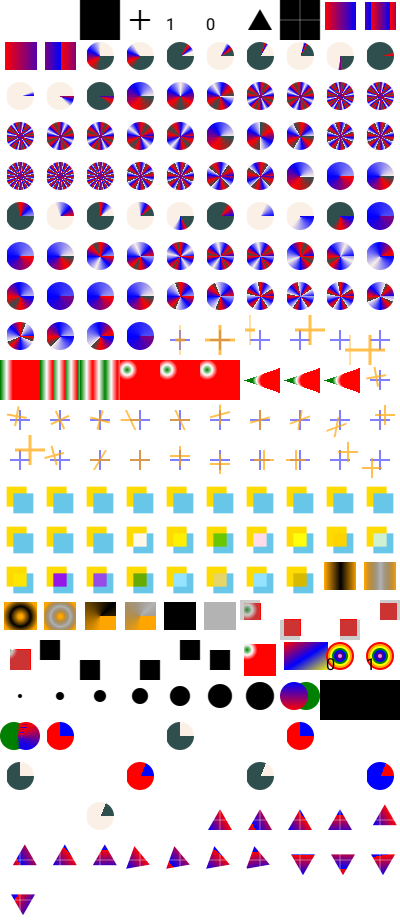
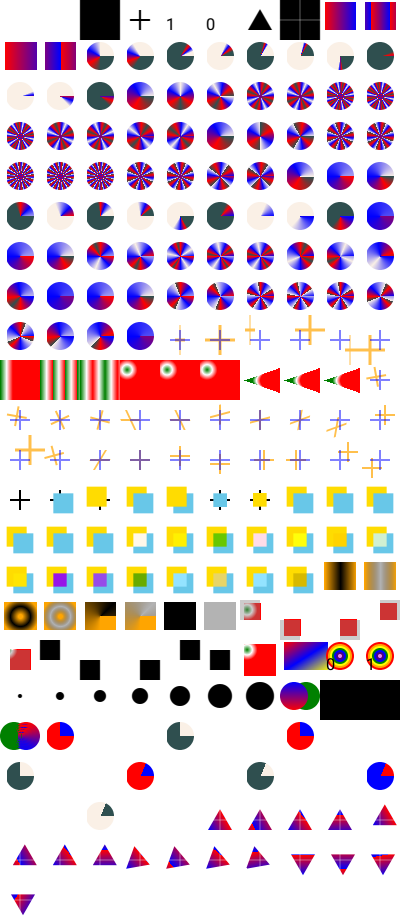
Add support for some additional composite modes

diff --git a/crates/krilla/src/text/glyph/colr.rs b/crates/krilla/src/text/glyph/colr.rs
@@ -8,6 +8,7 @@ use tiny_skia_path::{Path, PathBuilder};
 use crate::geom::Transform;
 use crate::graphics::blend::BlendMode;
 use crate::graphics::color::rgb;
+use crate::graphics::mask::{Mask, MaskType};
 use crate::graphics::paint::{
     Fill, FillRule, LinearGradient, RadialGradient, SpreadMethod, Stop, SweepGradient,
 };
@@ -57,13 +58,19 @@ pub(crate) fn draw_glyph(
 fn interpret(instructions: Vec<Instruction>, surface: &mut Surface) {
     for instruction in instructions {
         match instruction {
-            Instruction::Layer(blend, instructions) => {
+            Instruction::Layer(mode, instructions) => {
+                let blend = mode.to_blend_mode().unwrap_or(BlendMode::Normal);
                 surface.push_blend_mode(blend);
                 surface.push_isolated();
                 interpret(instructions, surface);
                 surface.pop();
                 surface.pop();
             }
+            Instruction::Composite {
+                source,
+                mode,
+                backdrop,
+            } => interpret_composite(source, mode, backdrop, surface),
             Instruction::Filled(fill, mut clips) => {
                 let filled = clips.split_off(clips.len() - 1);
 
@@ -91,21 +98,121 @@ fn interpret(instructions: Vec<Instruction>, surface: &mut Surface) {
     }
 }
 
+fn interpret_composite(
+    source: Vec<Instruction>,
+    mode: CompositeMode,
+    backdrop: Vec<Instruction>,
+    surface: &mut Surface,
+) {
+    match mode {
+        CompositeMode::Clear => {}
+        CompositeMode::Src => {
+            surface.push_isolated();
+            interpret(source, surface);
+            surface.pop();
+        }
+        CompositeMode::Dest => {
+            surface.push_isolated();
+            interpret(backdrop, surface);
+            surface.pop();
+        }
+        CompositeMode::SrcOver => {
+            surface.push_isolated();
+            interpret(backdrop, surface);
+            interpret(source, surface);
+            surface.pop();
+        }
+        CompositeMode::DestOver => {
+            surface.push_isolated();
+            interpret(source, surface);
+            interpret(backdrop, surface);
+            surface.pop();
+        }
+        CompositeMode::SrcIn => interpret_masked(source, backdrop, surface),
+        CompositeMode::DestIn => interpret_masked(backdrop, source, surface),
+        _ => {
+            let Some(blend) = mode.to_blend_mode() else {
+                surface.push_isolated();
+                interpret(backdrop, surface);
+                interpret(source, surface);
+                surface.pop();
+                return;
+            };
+
+            surface.push_isolated();
+            interpret(backdrop, surface);
+            surface.push_blend_mode(blend);
+            surface.push_isolated();
+            interpret(source, surface);
+            surface.pop();
+            surface.pop();
+            surface.pop();
+        }
+    }
+}
+
+fn interpret_masked(visible: Vec<Instruction>, mask: Vec<Instruction>, surface: &mut Surface) {
+    let mask_stream = {
+        let mut builder = surface.stream_builder();
+        let mut mask_surface = builder.surface();
+        interpret(mask, &mut mask_surface);
+        mask_surface.finish();
+        builder.finish()
+    };
+
+    surface.push_mask(Mask::new(mask_stream, MaskType::Alpha));
+    interpret(visible, surface);
+    surface.pop();
+}
+
 /// The context necessary for creating the bytecode of a COLR-based glyph.
 struct ColrBuilder {
     font: Font,
     context_color: rgb::Color,
     clips: Vec<Vec<Path>>,
     stack: Vec<Vec<Instruction>>,
-    layers: Vec<BlendMode>,
+    layers: Vec<CompositeMode>,
     transforms: Vec<Transform>,
     error: bool,
 }
 
 /// A bytecode instruction for drawing a COLR glyph.
 enum Instruction {
-    Layer(BlendMode, Vec<Instruction>),
+    Layer(CompositeMode, Vec<Instruction>),
+    Composite {
+        source: Vec<Instruction>,
+        mode: CompositeMode,
+        backdrop: Vec<Instruction>,
+    },
     Filled(Box<Fill>, Vec<Path>),
+}
+
+trait CompositeModeExt {
+    fn to_blend_mode(self) -> Option<BlendMode>;
+}
+
+impl CompositeModeExt for CompositeMode {
+    fn to_blend_mode(self) -> Option<BlendMode> {
+        match self {
+            CompositeMode::SrcOver => Some(BlendMode::Normal),
+            CompositeMode::Screen => Some(BlendMode::Screen),
+            CompositeMode::Overlay => Some(BlendMode::Overlay),
+            CompositeMode::Darken => Some(BlendMode::Darken),
+            CompositeMode::Lighten => Some(BlendMode::Lighten),
+            CompositeMode::ColorDodge => Some(BlendMode::ColorDodge),
+            CompositeMode::ColorBurn => Some(BlendMode::ColorBurn),
+            CompositeMode::HardLight => Some(BlendMode::HardLight),
+            CompositeMode::SoftLight => Some(BlendMode::SoftLight),
+            CompositeMode::Difference => Some(BlendMode::Difference),
+            CompositeMode::Exclusion => Some(BlendMode::Exclusion),
+            CompositeMode::Multiply => Some(BlendMode::Multiply),
+            CompositeMode::HslHue => Some(BlendMode::Hue),
+            CompositeMode::HslColor => Some(BlendMode::Color),
+            CompositeMode::HslLuminosity => Some(BlendMode::Luminosity),
+            CompositeMode::HslSaturation => Some(BlendMode::Saturation),
+            _ => None,
+        }
+    }
 }
 
 impl ColrBuilder {
@@ -436,32 +543,12 @@ impl ColorPainter for ColrBuilder {
     }
 
     fn push_layer(&mut self, composite_mode: CompositeMode) {
-        let mode = match composite_mode {
-            CompositeMode::SrcOver => BlendMode::Normal,
-            CompositeMode::Screen => BlendMode::Screen,
-            CompositeMode::Overlay => BlendMode::Overlay,
-            CompositeMode::Darken => BlendMode::Darken,
-            CompositeMode::Lighten => BlendMode::Lighten,
-            CompositeMode::ColorDodge => BlendMode::ColorDodge,
-            CompositeMode::ColorBurn => BlendMode::ColorBurn,
-            CompositeMode::HardLight => BlendMode::HardLight,
-            CompositeMode::SoftLight => BlendMode::SoftLight,
-            CompositeMode::Difference => BlendMode::Difference,
-            CompositeMode::Exclusion => BlendMode::Exclusion,
-            CompositeMode::Multiply => BlendMode::Multiply,
-            CompositeMode::HslHue => BlendMode::Hue,
-            CompositeMode::HslColor => BlendMode::Color,
-            CompositeMode::HslLuminosity => BlendMode::Luminosity,
-            CompositeMode::HslSaturation => BlendMode::Saturation,
-            _ => BlendMode::Normal,
-        };
-
-        self.layers.push(mode);
+        self.layers.push(composite_mode);
         self.stack.push(vec![]);
     }
 
     fn pop_layer(&mut self) {
-        let (Some(blend), Some(instructions)) = (self.layers.pop(), self.stack.pop()) else {
+        let (Some(composite), Some(mut instructions)) = (self.layers.pop(), self.stack.pop()) else {
             self.error = true;
             return;
         };
@@ -471,6 +558,23 @@ impl ColorPainter for ColrBuilder {
             return;
         };
 
-        stack.push(Instruction::Layer(blend, instructions));
+        // See the skrifa code to see how it handles composite operations. 
+        // https://github.com/googlefonts/fontations/blob/fd0178ce4ea48301a7f06b35a6fce9879c102292/skrifa/src/color/traversal.rs#L566-L593
+        // Everything is wrapped in a `SrcOver` base layer.
+        if composite == CompositeMode::SrcOver {
+            if let Some(Instruction::Layer(_, _)) = instructions.last() {
+                let Some(Instruction::Layer(mode, source)) = instructions.pop() else {
+                    unreachable!();
+                };
+                stack.push(Instruction::Composite {
+                    source,
+                    mode,
+                    backdrop: instructions,
+                });
+                return;
+            }
+        }
+
+        stack.push(Instruction::Layer(composite, instructions));
     }
 }
